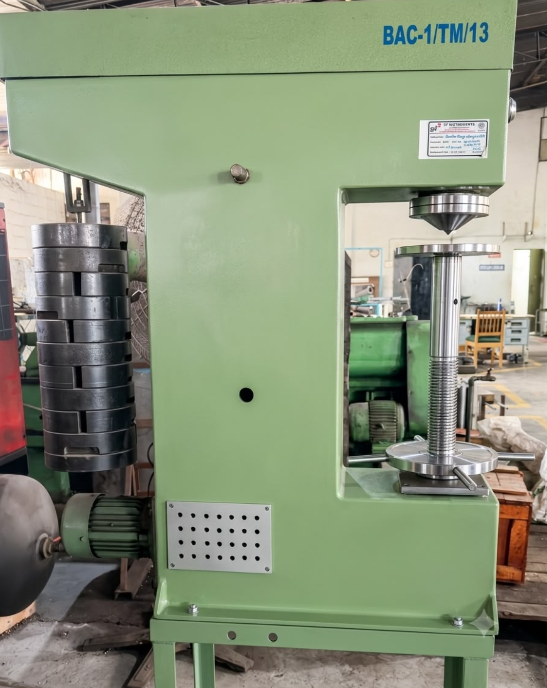
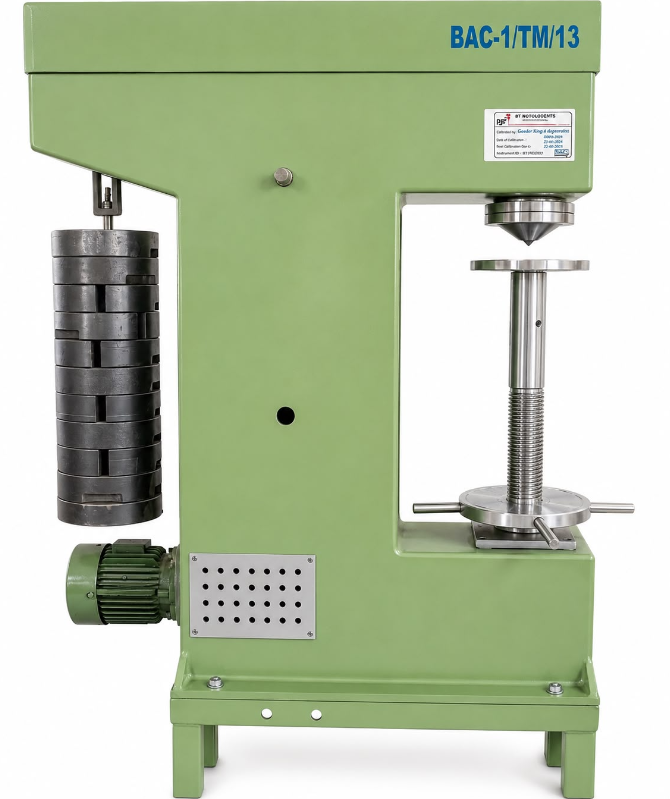
feat: rename quality assurance to quality control, update quality section layout and replace testing machine images

diff --git a/src/pages/Quality.tsx b/src/pages/Quality.tsx
@@ -7,6 +7,7 @@ import dimensionalImg from '../assets/dimensional_inspection.png';
 import microscopeImg from '../assets/metallurgical_microscope.png';
 import spectrometerImg from '../assets/spectrometer.png';
 import visualInspectionImg from '../assets/visual_inspection.png';
+import visualTestingUserImg from '../assets/visual_testing_user.jpg';
 
 interface TestingMachine {
   title: string;
@@ -53,11 +54,18 @@ const testingMachines: TestingMachine[] = [
     specs: ["Charpy pendulum arm", "Dial energy scale", "Fracture toughness check"]
   },
   {
-    title: "Precision Metrology & Height Gauging",
+    title: "Precision Metrology & Quality Control",
     category: "Dimensional Inspection",
-    description: "Detailed measurement of critical diameters, lengths, and concentricity using digital vernier calipers, digital height gauges, and micro-indicators.",
+    description: "Ensure complete geometric compliance, tight tolerances, and flawless part quality with advanced dimensional inspection services. From initial prototype validation to full-scale production auditing, state-of-the-art metrology technology verifies that every physical part aligns exactly with its CAD specifications.",
     image: dimensionalImg,
     specs: ["Digital height master", "Granite surface plate", "Traceable calibration gauges"]
+  },
+  {
+    title: "Visual Inspection",
+    category: "Surface Integrity",
+    description: "Rigorous visual examination of every cast component to identify surface defects, casting imperfections, dimensional abnormalities, and machining quality issues.",
+    image: visualInspectionImg,
+    specs: ["100% component coverage", "Surface defect classification", "High-intensity inspection stations"]
   }
 ];
 
@@ -75,14 +83,59 @@ export const Quality: React.FC = () => {
         </div>
         <div className="max-w-[1280px] mx-auto px-6 md:px-margin-desktop relative z-10">
           <span className="font-label-caps text-xs text-molten-glow uppercase tracking-widest">
-            QUALITY ASSURANCE DEPARTMENT
+            QUALITY CONTROL DEPARTMENT
           </span>
           <h1 className="font-headline-xl text-4xl md:text-6xl font-black mt-2 leading-tight">
-            Quality Assurance
+            Quality Control
           </h1>
-          <p className="font-body-lg text-sm md:text-base text-surface-variant max-w-2xl mt-4 leading-relaxed font-light font-sans">
-            At BHUMIKA ALLOY CASTINGS, we are committed to delivering the highest quality castings. Our shell moulding process includes rigorous quality control measures at every stage, from raw material selection to final inspection. We employ advanced testing methods, including dimensional inspection, metallurgical analysis, and non-destructive testing, to ensure that each casting meets the stringent standards of quality and performance.
-          </p>
+        </div>
+      </section>
+
+      {/* Quality Commitment Section */}
+      <section className="py-20 bg-white border-b border-primary/5">
+        <div className="max-w-[1280px] mx-auto px-6 md:px-margin-desktop">
+          <div className="grid md:grid-cols-12 gap-12 items-center">
+            {/* Left side: Text Content */}
+            <div className="md:col-span-7 space-y-6">
+              <span className="font-label-caps text-xs text-secondary font-bold uppercase tracking-widest block">
+                QUALITY COMMITMENT
+              </span>
+              <h2 className="font-headline-lg text-3xl md:text-4xl font-black text-primary">
+                Quality Control
+              </h2>
+              <p className="font-body-md text-base text-on-surface-variant leading-relaxed font-sans font-light">
+                At BHUMIKA ALLOY CASTINGS, we are committed to delivering the highest quality castings. Our shell moulding process includes rigorous quality control measures at every stage, from raw material selection to final inspection. We employ advanced testing methods, including dimensional inspection, metallurgical analysis, and non-destructive testing, to ensure that each casting meets the stringent standards of quality and performance.
+              </p>
+            </div>
+            
+            {/* Right side: Two Images */}
+            <div className="md:col-span-5 grid grid-cols-2 gap-4 sm:gap-6 mt-8 md:mt-0">
+              <div className="space-y-4">
+                <div className="relative aspect-[3/4] bg-steel-plate overflow-hidden rounded-lg shadow-md border border-primary/5 group">
+                  <img
+                    src={visualTestingUserImg}
+                    alt="Visual Testing"
+                    className="w-full h-full object-cover group-hover:scale-105 transition-transform duration-500"
+                  />
+                  <div className="absolute bottom-2 left-2 bg-primary/95 text-on-primary text-[10px] font-bold px-3 py-1 rounded shadow uppercase tracking-wider font-label-caps">
+                    Visual Testing
+                  </div>
+                </div>
+              </div>
+              <div className="space-y-4 pt-6 md:pt-12">
+                <div className="relative aspect-[3/4] bg-steel-plate overflow-hidden rounded-lg shadow-md border border-primary/5 group">
+                  <img
+                    src={dimensionalImg}
+                    alt="Dimensional Testing"
+                    className="w-full h-full object-cover group-hover:scale-105 transition-transform duration-500"
+                  />
+                  <div className="absolute bottom-2 left-2 bg-primary/95 text-on-primary text-[10px] font-bold px-3 py-1 rounded shadow uppercase tracking-wider font-label-caps">
+                    Dimensional Testing
+                  </div>
+                </div>
+              </div>
+            </div>
+          </div>
         </div>
       </section>
 
@@ -129,33 +182,6 @@ export const Quality: React.FC = () => {
         </div>
       </section>
 
-      {/* Visual Inspection Section */}
-      <section className="py-20 bg-white border-b border-primary/5">
-        <div className="max-w-[1280px] mx-auto px-6 md:px-margin-desktop grid md:grid-cols-2 gap-16 items-center">
-          <div className="space-y-6">
-            <span className="font-label-caps text-xs text-secondary font-bold uppercase tracking-wider block">
-              VISUAL INSPECTION
-            </span>
-            <h2 className="font-headline-lg text-3xl font-extrabold text-primary molten-border pb-4">
-              Quality Assurance
-            </h2>
-            <p className="font-body-md text-sm text-on-surface-variant leading-relaxed font-sans">
-              At Bhumika Alloy Castings Pvt. Ltd., visual inspection is an essential part of our quality control process. Our experienced quality team carefully examines every component to identify surface defects, dimensional abnormalities, casting imperfections, machining issues, and other quality concerns.
-            </p>
-          </div>
-          <div className="relative group">
-            <div className="absolute -inset-1.5 bg-gradient-to-r from-molten-glow to-secondary rounded-lg blur opacity-10 group-hover:opacity-20 transition duration-1000"></div>
-            <div className="relative aspect-[4/3] bg-steel-plate overflow-hidden rounded-lg shadow-md border border-primary/5">
-              <img
-                className="w-full h-full object-cover group-hover:scale-102 transition-transform duration-700"
-                alt="Visual Inspection Process"
-                src={visualInspectionImg}
-              />
-            </div>
-          </div>
-        </div>
-      </section>
-
       {/* Testing Equipment & Infrastructure */}
       <section className="py-20 bg-steel-plate/30">
         <div className="max-w-[1280px] mx-auto px-6 md:px-margin-desktop">
@@ -164,7 +190,7 @@ export const Quality: React.FC = () => {
               LABORATORY INFRASTRUCTURE
             </span>
             <h2 className="font-headline-lg text-3xl md:text-4xl font-black text-primary">
-              Advanced Quality Testing Equipment
+              Advanced Quality Testing
             </h2>
             <p className="font-body-md text-sm text-on-surface-variant mt-4 max-w-xl mx-auto">
               Our in-house metrology, chemical, and mechanical testing laboratories are fully outfitted with state-of-the-art instruments for comprehensive casting validation.
@@ -178,11 +204,11 @@ export const Quality: React.FC = () => {
                 className="bg-white rounded-xl border border-primary/5 shadow-sm hover:shadow-xl hover:-translate-y-1.5 transition-all duration-300 overflow-hidden flex flex-col premium-card group animate-fadeIn"
               >
                 {/* Image Container */}
-                <div className="aspect-[4/5] bg-steel-plate relative flex items-center justify-center border-b border-primary/5 overflow-hidden">
+                <div className="aspect-[4/5] bg-white relative flex items-center justify-center border-b border-primary/5 overflow-hidden p-6">
                   <img 
                     src={machine.image} 
                     alt={machine.title}
-                    className="w-full h-full object-cover transition-transform duration-500 group-hover:scale-105"
+                    className="w-full h-full object-contain transition-transform duration-500 group-hover:scale-105"
                   />
                   <div className="absolute top-4 left-4 bg-primary text-on-primary text-[10px] font-bold font-label-caps px-2.5 py-1 rounded shadow-md uppercase tracking-wider">
                     {machine.category}

diff --git a/src/pages/Home.tsx b/src/pages/Home.tsx
@@ -274,128 +274,6 @@ export const Home: React.FC = () => {
         </div>
       </div>
 
-      {/* Bento Grid: Applications / Product Highlights */}
-      <section className="py-24 bg-white">
-        <div className="max-w-[1280px] mx-auto px-6 md:px-margin-desktop">
-          <div className="flex flex-col md:flex-row justify-between items-start md:items-end mb-16 gap-6">
-            <div className="max-w-xl">
-              <span className="font-label-caps text-label-caps text-secondary mb-4 block uppercase tracking-wider text-xs">
-                PRODUCT HIGHLIGHTS
-              </span>
-              <h2 className="font-headline-lg text-3xl md:text-headline-lg text-primary font-black">
-                Engineered Industrial Components
-              </h2>
-              <p className="text-on-surface-variant text-sm mt-3">
-                Our castings are engineered to withstand extreme pressures, speeds, and aggressive chemical environments across major engineering domains.
-              </p>
-            </div>
-            <Link
-              to="/products"
-              className="text-primary font-bold border-b-2 border-primary pb-1 flex items-center gap-2 hover:text-secondary hover:border-secondary transition-all text-sm whitespace-nowrap"
-            >
-              View Full Product Catalog <MenuSquare className="w-4 h-4" />
-            </Link>
-          </div>
-
-          <div className="grid grid-cols-1 md:grid-cols-4 gap-6 min-h-[650px]">
-            {/* Large Item: RO & Food Processing */}
-            <div className="md:col-span-2 md:row-span-2 relative group overflow-hidden rounded-lg shadow-md border border-primary/5 flex flex-col justify-end min-h-[350px]">
-              <img
-                className="absolute inset-0 w-full h-full object-cover group-hover:scale-105 transition-all duration-700 brightness-[0.8] group-hover:brightness-[0.6]"
-                alt="Stainless steel decanter bowl shells"
-                src={decanterShellImg}
-              />
-              <div className="absolute inset-0 bg-gradient-to-t from-primary via-transparent to-transparent opacity-80" />
-              <div className="relative p-8 z-10 text-white">
-                <span className="bg-molten-glow text-white px-3 py-1 text-[9px] font-bold tracking-widest uppercase mb-3 inline-block rounded-sm">
-                  RO &amp; FOOD PROCESSING
-                </span>
-                <h4 className="font-headline-md text-2xl mb-2 font-bold">High-Pressure &amp; Sanitary Components</h4>
-                <p className="font-body-md text-white/80 text-sm leading-relaxed max-w-md">
-                  Duplex and CF8M stainless steel castings engineered for Reverse Osmosis high-pressure pumps, decanter separator shells, and corrosion-free food process systems.
-                </p>
-                <Link
-                  to="/products"
-                  className="inline-flex items-center text-sm font-bold text-molten-glow hover:text-white transition-all mt-4"
-                >
-                  Details <ArrowRight className="w-4 h-4 ml-1" />
-                </Link>
-              </div>
-            </div>
-
-            {/* Long Item: Automotive Components */}
-            <div className="md:col-span-2 relative group overflow-hidden rounded-lg shadow-md border border-primary/5 flex flex-col justify-end min-h-[280px]">
-              <img
-                className="absolute inset-0 w-full h-full object-cover group-hover:scale-105 transition-all duration-700 brightness-[0.8] group-hover:brightness-[0.6]"
-                alt="Automotive piston inserts and sleeves"
-                src={pistonRingsImg}
-              />
-              <div className="absolute inset-0 bg-gradient-to-t from-primary via-transparent to-transparent opacity-80" />
-              <div className="relative p-6 z-10 text-white">
-                <span className="bg-secondary text-white px-3 py-1 text-[9px] font-bold tracking-widest uppercase mb-3 inline-block rounded-sm">
-                  AUTOMOTIVE
-                </span>
-                <h4 className="font-headline-md text-xl mb-1 font-bold">Piston Inserts, Sleeves &amp; Rings</h4>
-                <p className="font-body-md text-white/80 text-xs leading-relaxed max-w-md">
-                  High-precision Ni-Resist insert rings, cylinder sleeves, and wear bushes machined to sub-micron tolerances for engine performance.
-                </p>
-                <Link
-                  to="/products"
-                  className="inline-flex items-center text-xs font-bold text-secondary-fixed-dim hover:text-white transition-all mt-2"
-                >
-                  Details <ArrowRight className="w-3.5 h-3.5 ml-1" />
-                </Link>
-              </div>
-            </div>
-
-            {/* Small Item 1: Textile */}
-            <div className="relative group overflow-hidden rounded-lg shadow-md border border-primary/5 flex flex-col justify-end min-h-[220px]">
-              <img
-                className="absolute inset-0 w-full h-full object-cover group-hover:scale-105 transition-all duration-700 brightness-[0.85] group-hover:brightness-[0.6]"
-                alt="Textile machinery cast guides"
-                src={bronzeBushesImg}
-              />
-              <div className="absolute inset-0 bg-gradient-to-t from-primary via-transparent to-transparent opacity-80" />
-              <div className="relative p-5 z-10 text-white">
-                <span className="bg-secondary text-white px-3 py-1 text-[9px] font-bold tracking-widest uppercase mb-3 inline-block rounded-sm">
-                  TEXTILE
-                </span>
-                <h4 className="font-headline-md text-md mb-1 font-bold text-sm sm:text-base">Precision Guides &amp; Loops</h4>
-                <p className="text-white/70 text-[11px] line-clamp-1">Highly polished, low-friction wear components.</p>
-                <Link
-                  to="/products"
-                  className="inline-flex items-center text-[10px] font-bold text-molten-glow hover:text-white transition-all mt-2"
-                >
-                  View specs
-                </Link>
-              </div>
-            </div>
-
-            {/* Small Item 2: Others */}
-            <div className="relative group overflow-hidden rounded-lg shadow-md border border-primary/5 flex flex-col justify-end min-h-[220px]">
-              <img
-                className="absolute inset-0 w-full h-full object-cover group-hover:scale-105 transition-all duration-700 brightness-[0.85] group-hover:brightness-[0.6]"
-                alt="Custom industrial castings"
-                src={valveCoversImg}
-              />
-              <div className="absolute inset-0 bg-gradient-to-t from-primary via-transparent to-transparent opacity-80" />
-              <div className="relative p-5 z-10 text-white">
-                <span className="bg-secondary text-white px-3 py-1 text-[9px] font-bold tracking-widest uppercase mb-3 inline-block rounded-sm">
-                  OTHER SECTORS
-                </span>
-                <h4 className="font-headline-md text-md mb-1 font-bold text-sm sm:text-base">Valves, Pumps &amp; Minerals</h4>
-                <p className="text-white/70 text-[11px] line-clamp-1">Custom metallurgical casts for diverse heavy industries.</p>
-                <Link
-                  to="/products"
-                  className="inline-flex items-center text-[10px] font-bold text-molten-glow hover:text-white transition-all mt-2"
-                >
-                  View specs
-                </Link>
-              </div>
-            </div>
-          </div>
-        </div>
-      </section>
 
       {/* Call to Action Banner */}
       <section className="bg-steel-plate py-20 border-t border-primary/5">

diff --git a/src/components/Footer.tsx b/src/components/Footer.tsx
@@ -63,7 +63,7 @@ export const Footer: React.FC = () => {
             </li>
             <li>
               <Link className="font-body-md text-surface-variant hover:text-molten-glow transition-colors duration-200" to="/quality">
-                Quality Assurance
+                Quality Control
               </Link>
             </li>
             <li>
